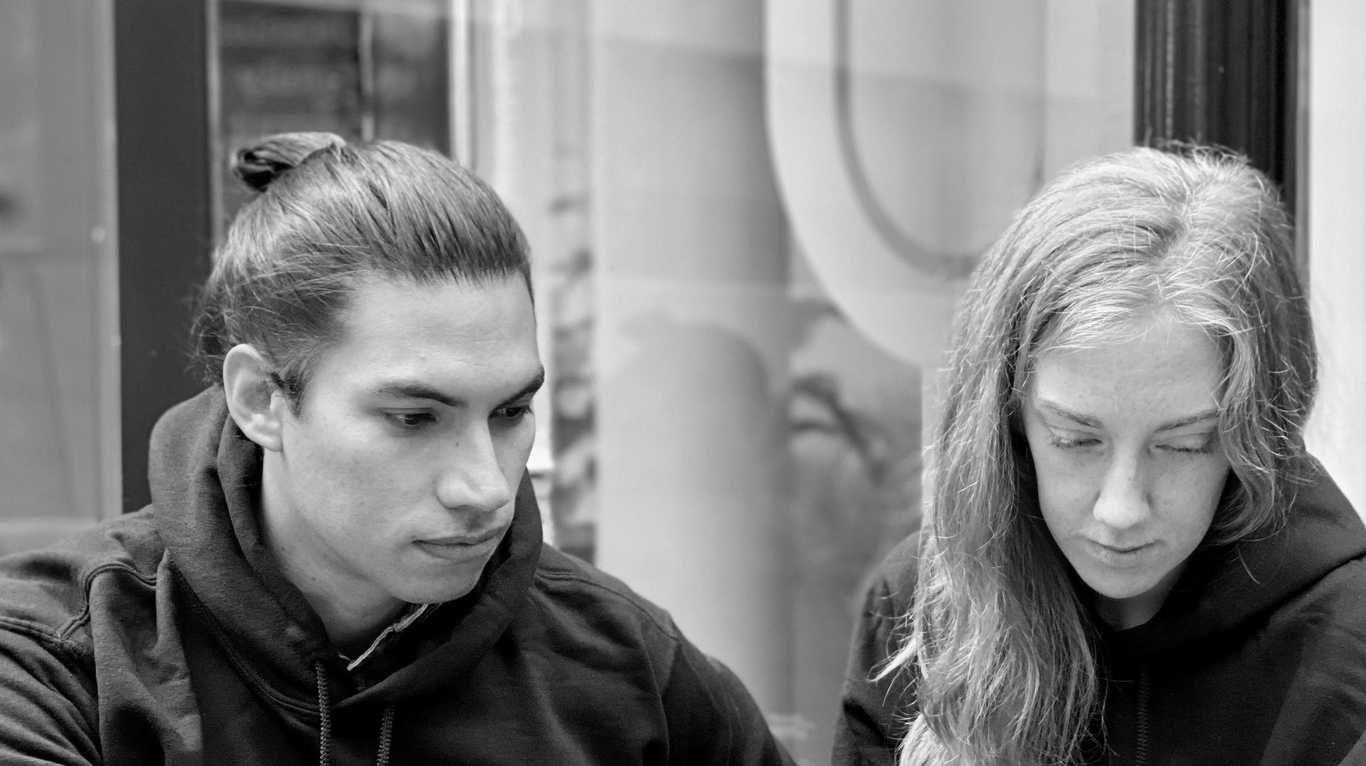
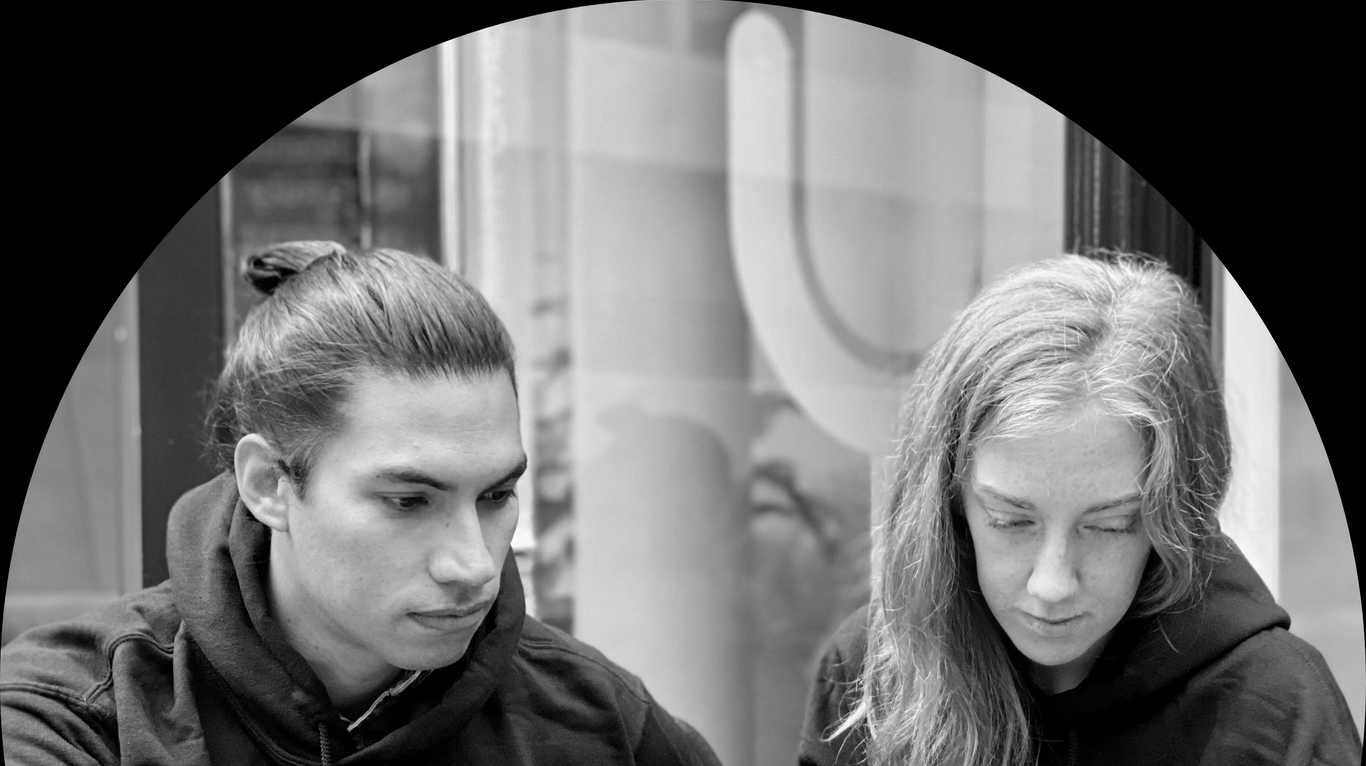
deploy gatsby blog

diff --git a/src/components/Blog/Blog.jsx b/src/components/Blog/Blog.jsx
@@ -57,7 +57,7 @@ const Blog = () => {
           <Col md={6} sm={12}>
             <Fade bottom duration={1000} delay={600} distance="30px">
               <div className="about-wrapper__image">
-                <AboutImg alt="profile picture" filename={'profile.jpg'} />
+                <AboutImg alt="profile picture" filename={'blog.jpg'} />
               </div>
             </Fade>
           </Col>
